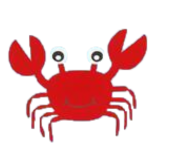
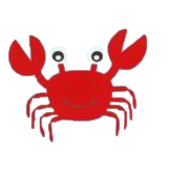
A bunch new undersea images with transparency fixed. Broke the shoal of moorish idols into individual fish so they can turn around a bit more convincingly.

Changed region(s): [[0.0281, 0.1611, 0.8427, 0.9664]]

diff --git a/index.html b/index.html
@@ -84,33 +84,6 @@
 			animation: zoomOut 1s ease-out forwards;
 		}
 
-		@keyframes moveAround {
-			0% {
-				transform: translate(0px, 10px) rotate(10deg);
-			}
-			25% {
-				transform: translate(10px, 0px) rotate(-5deg);
-			}
-			50% {
-				transform: translate(0px, -10px) rotate(5deg);
-			}
-			75% {
-				transform: translate(-10px, 0px) rotate(-10deg);
-			}
-			100% {
-				transform: translate(0px, 10px) rotate(10deg);
-			}
-		}
-		.animate.moveAround1 {
-			animation: moveAround 4s ease-in-out infinite;
-		}
-		.animate.moveAround2 {
-			animation: moveAround 6s linear infinite;
-		}
-		.animate.moveAround3 {
-			animation: moveAround 2s linear infinite;
-		}
-
 		#washingMachine {
 			position: absolute;
 			z-index: 20;
@@ -265,6 +238,73 @@
 
 		}
 
+		/* Undersea */
+
+		@keyframes swimCycle {
+			0% {
+				transform: translate(-10px, 0px) scaleX(1);
+			}
+			45% {
+				transform: translate(-510px, 0px) scaleX(1);
+			}
+			55% {
+				transform: translate(-490px, 0px) scaleX(-1);
+			}
+			90% {
+				transform: translate(10px, 0px) scaleX(-1);
+			}
+		}
+		.animate.swimCycle {
+			animation: swimCycle 5s linear infinite;
+		}
+		@keyframes moveXY {
+			0% {
+				transform: translate(0px, 10px);
+			}
+			25% {
+				transform: translate(10px, 0px);
+			}
+			50% {
+				transform: translate(0px, -10px);
+			}
+			75% {
+				transform: translate(-10px, 0px);
+			}
+			100% {
+				transform: translate(0px, 10px);
+			}
+		}
+		.animate.moveXY {
+			animation: moveXY 10s linear infinite;
+		}
+		@keyframes moveAround {
+			0% {
+				transform: translate(0px, 10px) rotate(10deg);
+			}
+			25% {
+				transform: translate(10px, 0px) rotate(-5deg);
+			}
+			50% {
+				transform: translate(0px, -10px) rotate(5deg);
+			}
+			75% {
+				transform: translate(-10px, 0px) rotate(-10deg);
+			}
+			100% {
+				transform: translate(0px, 10px) rotate(10deg);
+			}
+		}
+
+		.animate.moveAround1 {
+			animation: moveAround 4s ease-in-out infinite;
+		}
+		.animate.moveAround2 {
+			animation: moveAround 6s linear infinite;
+		}
+		.animate.moveAround3 {
+			animation: moveAround 2s linear infinite;
+		}
+
 		#area-undersea .xyslider {
 			xmargin-left: -960px; /* Ensure disappearances happen offscreen */
 		}
@@ -280,26 +320,66 @@
 		}
 
 		/* Each object has it's top specified here, but left is handled dynamically in the script as it will move as we move left and right */
-		#area-undersea #crab1 {
-			top: 200px;
-		}
-		#area-undersea #crab2 {
-			top: 400px;
-		}
 		#area-undersea #fish1 {
 			top: 300px;
 		}
 		#area-undersea #fish2 {
 			top: 500px;
 		}
-		#area-undersea #shoal {
-			top: 800px;
-		}
 		#area-undersea #jellyfish {
 			top: 1300px;
 		}
 		#area-undersea #anglerfish {
 			top: 1500px;
+		}
+		#area-undersea #crab {
+			top: 200px;
+		}
+		#area-undersea #jellyfishes {
+			top: 800px;
+		}
+		#area-undersea #nemo {
+			top: 100px;
+		}
+		#area-undersea #petunias {
+			top: 1000px;
+		}
+		#area-undersea #seahorses {
+			top: 50px;
+		}
+		/* Shoal of Moorish Idols */
+		#area-undersea #moorishidol1 {
+			top: 400px;
+			animation-delay: 0.3s;
+		}
+		#area-undersea #moorishidol2 {
+			top: 310px;
+			animation-delay: 0.25s;
+		}
+		#area-undersea #moorishidol3 {
+			top: 480px;
+			animation-delay: 0.2s;
+		}
+		#area-undersea #moorishidol4 {
+			top: 390px;
+			animation-delay: 0.15s;
+		}
+		#area-undersea #moorishidol5 {
+			top: 320px;
+			animation-delay: 0.1s;
+		}
+		#area-undersea #moorishidol6 {
+			top: 420px;
+			animation-delay: 0.05s;
+		}
+		#area-undersea #starfish {
+			top: 100px;
+		}
+		#area-undersea #turtle {
+			top: 75px;
+		}
+		#area-undersea #whale {
+			top: 500px;
 		}
 		#area-undersea #seafloor1 {
 			bottom: 0px;
@@ -308,6 +388,9 @@
 			bottom: 0px;
 		}
 		#area-undersea #seafloor3 {
+			bottom: 0px;
+		}
+		#area-undersea #seafloor4 {
 			bottom: 0px;
 		}
 
@@ -514,16 +597,30 @@
 			<div class="slider xyslider">
 				<div id="undersea-container">
 					<img id="chain" src="images/2025/undersea/chain_and_anchor.png">
-					<img id="crab1" src="images/2025/undersea/crab.png" class="animate moveAround1">
-					<img id="crab2" src="images/2025/undersea/A crab 1.jpg" class="animate moveAround2">
-					<img id="fish1" src="images/2025/undersea/A fish 1.jpg" class="animate moveAround3">
-					<img id="fish2" src="images/2025/undersea/A fish 2.jpg" class="animate moveAround1">
-					<img id="shoal" src="images/2025/undersea/shoal of fish 1.jpg" class="animate moveAround1">
-					<img id="jellyfish" src="images/2025/undersea/A jelly fish 1.jpg" class="animate moveAround2">
-					<img id="anglerfish" src="images/2025/undersea/angler fish 1.jpg" class="animate moveAround3">
-					<img id="seafloor1" src="images/2025/undersea/sea floor.jpg">
+
+					<img id="fish1" src="images/2025/undersea/A fish 1.png" class="animate moveAround3">
+					<img id="fish2" src="images/2025/undersea/A fish 2.png" class="animate moveAround1">
+					<img id="jellyfish" src="images/2025/undersea/A jelly fish 1.png" class="animate moveAround2">
+					<img id="anglerfish" src="images/2025/undersea/angler fish 1.png" class="animate moveAround3">
+					<img id="crab" src="images/2025/undersea/crab.png" class="animate moveAround1">
+					<img id="jellyfishes" src="images/2025/undersea/jelly fishes.png" class="animate moveAround3">
+					<img id="nemo" src="images/2025/undersea/nemo.png" class="animate moveAround3">
+					<img id="petunias" src="images/2025/undersea/petunias.png" class="animate moveAround3">
+					<img id="seahorses" src="images/2025/undersea/sea horses.png" class="animate moveXY">
+					<img id="moorishidol1" src="images/2025/undersea/moorishidol.png" class="animate swimCycle">
+					<img id="moorishidol2" src="images/2025/undersea/moorishidol.png" class="animate swimCycle">
+					<img id="moorishidol3" src="images/2025/undersea/moorishidol.png" class="animate swimCycle">
+					<img id="moorishidol4" src="images/2025/undersea/moorishidol.png" class="animate swimCycle">
+					<img id="moorishidol5" src="images/2025/undersea/moorishidol.png" class="animate swimCycle">
+					<img id="moorishidol6" src="images/2025/undersea/moorishidol.png" class="animate swimCycle">
+					<img id="starfish" src="images/2025/undersea/starfish.png" class="animate moveAround1">
+					<img id="turtle" src="images/2025/undersea/turtle.png" class="animate moveAround3">
+					<img id="whale" src="images/2025/undersea/whale.png" class="animate moveAround3">
+
+					<img id="seafloor1" src="images/2025/undersea/sea floor.png">
 					<img id="seafloor2" src="images/2025/undersea/sea floor 2.png">
 					<img id="seafloor3" src="images/2025/undersea/sea floor 3.png">
+					<img id="seafloor4" src="images/2025/undersea/sea floor 4.png">
 				</div>
 			</div>
 		</div>

diff --git a/shadowtheatre.js b/shadowtheatre.js
@@ -96,30 +96,54 @@ const XLOOP = {
 const UNDERSEA_ENTRY_POS = WIDTH["undersea"] / 2;
 const UNDERSEA_OBJECT_POS = {
 	"chain": UNDERSEA_ENTRY_POS,
-	"crab1": 1,
-	"crab2": 400,
 	"fish1": 800,
 	"fish2": 1000,
-	"shoal": 2000,
 	"jellyfish": 3000,
 	"anglerfish": 4000,
-	"seafloor1": 1500,
-	"seafloor2": 3000,
-	"seafloor3": 4500,
+	"crab": 50,
+	"jellyfishes": 500,
+	"nemo": 250,
+	"petunias": 1250,
+	"seahorses": 2250,
+	"moorishidol1": 2500,
+	"moorishidol2": 2570,
+	"moorishidol3": 2600,
+	"moorishidol4": 2620,
+	"moorishidol5": 2750,
+	"moorishidol6": 2725,
+	"starfish": 3000,
+	"turtle": 5000,
+	"whale": 4000,
+	"seafloor1": 10,
+	"seafloor2": 1500,
+	"seafloor3": 3000,
+	"seafloor4": 4500,
 };
 var underseaObjects = {};
 const UNDERSEA_OBJECT_WIDTH = {
 	"chain": 1297,
-	"crab1": 178,
-	"crab2": 596,
-	"fish1": 624,
-	"fish2": 660,
-	"shoal": 357,
-	"jellyfish": 544,
-	"anglerfish": 1068,
+	"fish1": 500,
+	"fish2": 453,
+	"jellyfish": 547,
+	"anglerfish": 710,
+	"crab": 178,
+	"jellyfishes": 1017,
+	"nemo": 202,
+	"petunias": 789,
+	"seahorses": 170,
+	"moorishidol1": 139,
+	"moorishidol2": 139,
+	"moorishidol3": 139,
+	"moorishidol4": 139,
+	"moorishidol5": 139,
+	"moorishidol6": 139,
+	"starfish": 228,
+	"turtle": 376,
+	"whale": 752,
 	"seafloor1": 1403,
 	"seafloor2": 2206,
 	"seafloor3": 2206,
+	"seafloor4": 1600,
 };
 
 // These are the horizontal positions in each Area from where we can go up (1) or down (-1) to a different Area (or both)
